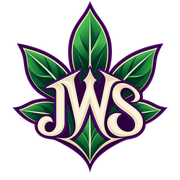
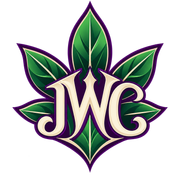
Replace JWS artwork with corrected JWC mark

diff --git a/app/components/Nav.tsx b/app/components/Nav.tsx
@@ -99,7 +99,7 @@ export default function Nav() {
         <div className="navWrap">
         <Link className="brand" href="/" aria-label={`${STORE.name} home`}>
           <span className="brandMark" aria-hidden="true">
-            <Image src="/images/jane-wilson-jws-logo.webp" alt="" width={64} height={64} priority />
+            <Image src="/images/jane-wilson-jwc-logo.webp" alt="" width={64} height={64} priority />
           </span>
           <span className="brandWords">
             <b>JANE WILSON</b>

diff --git a/app/manifest.ts b/app/manifest.ts
@@ -11,8 +11,8 @@ export default function manifest(): MetadataRoute.Manifest {
     background_color: "#f6efe4",
     theme_color: "#3b0f5c",
     icons: [
-      { src: "/jws-icon-192.png", sizes: "192x192", type: "image/png" },
-      { src: "/jws-icon-512.png", sizes: "512x512", type: "image/png" }
+      { src: "/jwc-icon-192.png", sizes: "192x192", type: "image/png" },
+      { src: "/jwc-icon-512.png", sizes: "512x512", type: "image/png" }
     ]
   };
 }

diff --git a/app/globals.css b/app/globals.css
@@ -281,3 +281,7 @@ h1,h2{font-family:var(--font-display),Georgia,serif;font-weight:400}
   background-color: rgb(251, 250, 245) !important;
   backdrop-filter: none !important;
 }
+
+/* Owner-corrected JWC monogram: show the supplied leaf silhouette without the legacy circular badge. */
+.brandMark{background:transparent;border-radius:0;box-shadow:none;overflow:visible}
+.brandMark img{display:block;width:100%;height:100%;object-fit:contain}

diff --git a/app/tv/tv.module.css b/app/tv/tv.module.css
@@ -1494,7 +1494,7 @@
   z-index: 0;
   width: 360px;
   height: 360px;
-  background: url("/images/jane-wilson-jws-logo.webp") center / contain no-repeat;
+  background: url("/images/jane-wilson-jwc-logo.webp") center / contain no-repeat;
   opacity: .055;
   transform: rotate(-7deg);
   pointer-events: none;

diff --git a/app/tv2/tv2.module.css b/app/tv2/tv2.module.css
@@ -555,7 +555,7 @@
   z-index: 0;
   width: 360px;
   height: 360px;
-  background: url("/images/jane-wilson-jws-logo.webp") center / contain no-repeat;
+  background: url("/images/jane-wilson-jwc-logo.webp") center / contain no-repeat;
   opacity: .055;
   transform: rotate(-7deg);
   pointer-events: none;

diff --git a/app/lib/tvStore.ts b/app/lib/tvStore.ts
@@ -5,5 +5,5 @@ export const tvStore = {
   shortAddress: STORE.street,
   hours: STORE.hoursLabel,
   open24Hours7Days: false,
-  logo: "/images/jane-wilson-jws-logo.webp",
+  logo: "/images/jane-wilson-jwc-logo.webp",
 };
